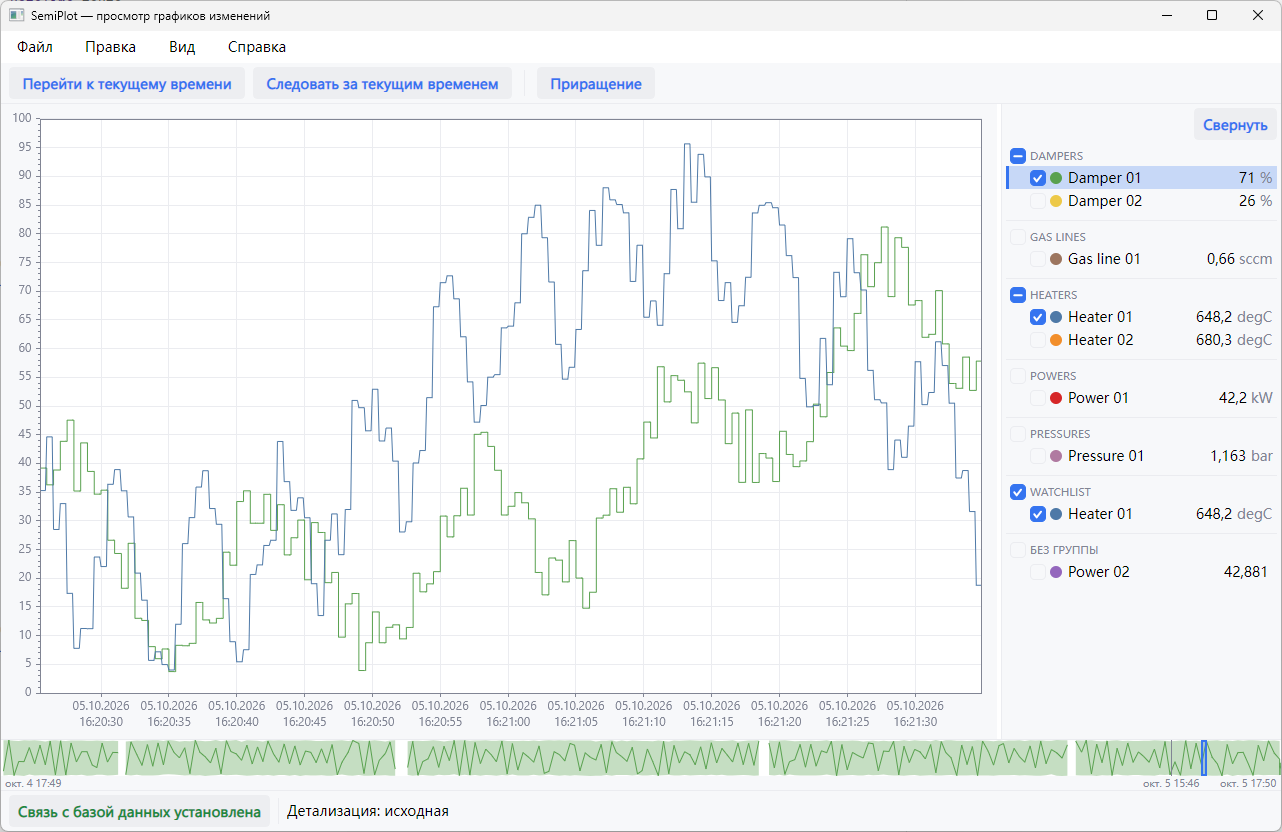
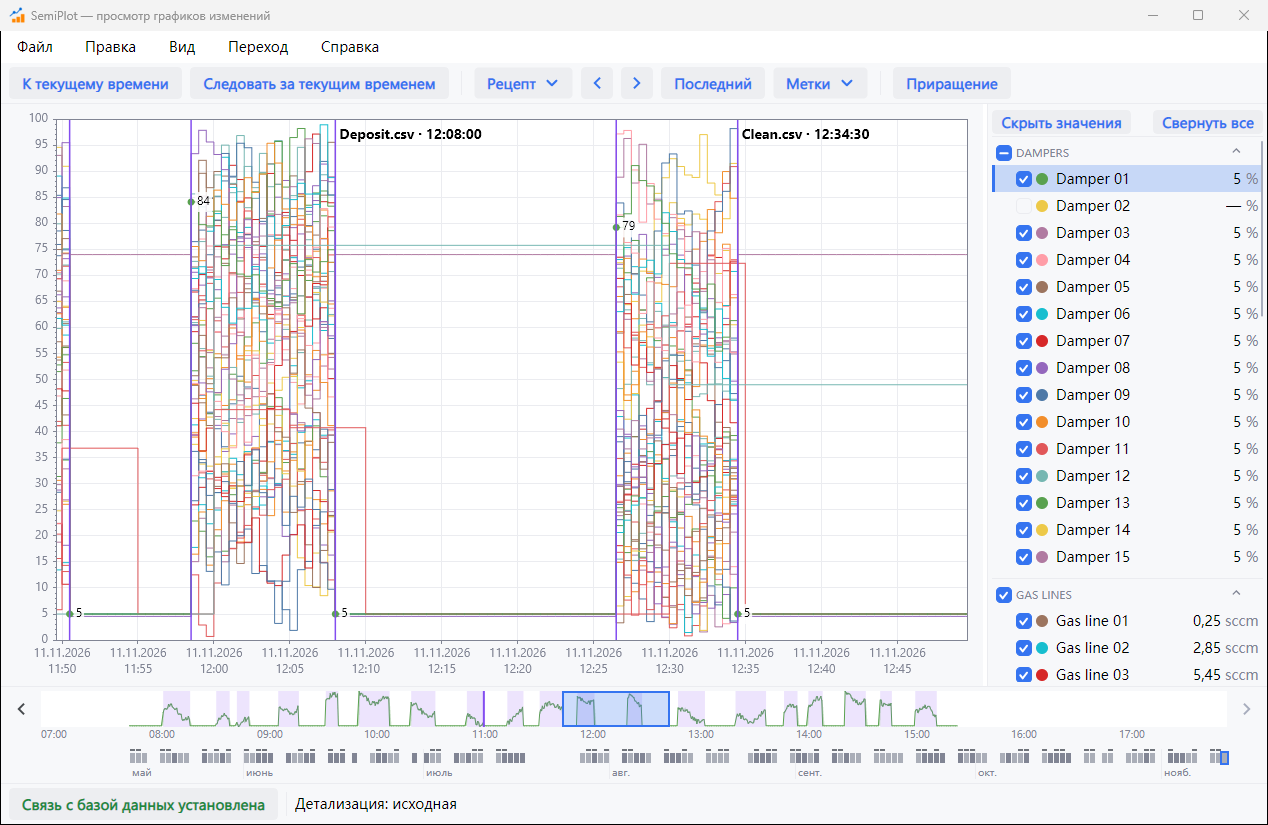
docs(readme): update the main window screenshot (#174)
The screenshot showed the single-strip minimap over the whole archive.
It now shows the six-month stand: recipe runs on the chart, the page
strip under it and the day calendar below.

diff --git a/readme.md b/readme.md
@@ -16,7 +16,7 @@ SemiPlot — программа просмотра трендов техноло
 
 <div align="center">
     <img src="./docs/img/main-window.png" width="800" />
-    <p><em>Главное окно: график, условные обозначения по группам, миникарта архива</em></p>
+    <p><em>Главное окно: график с запусками рецептов, условные обозначения по группам, полоса страницы и календарь дней архива</em></p>
 </div>
 
 <div align="center">
